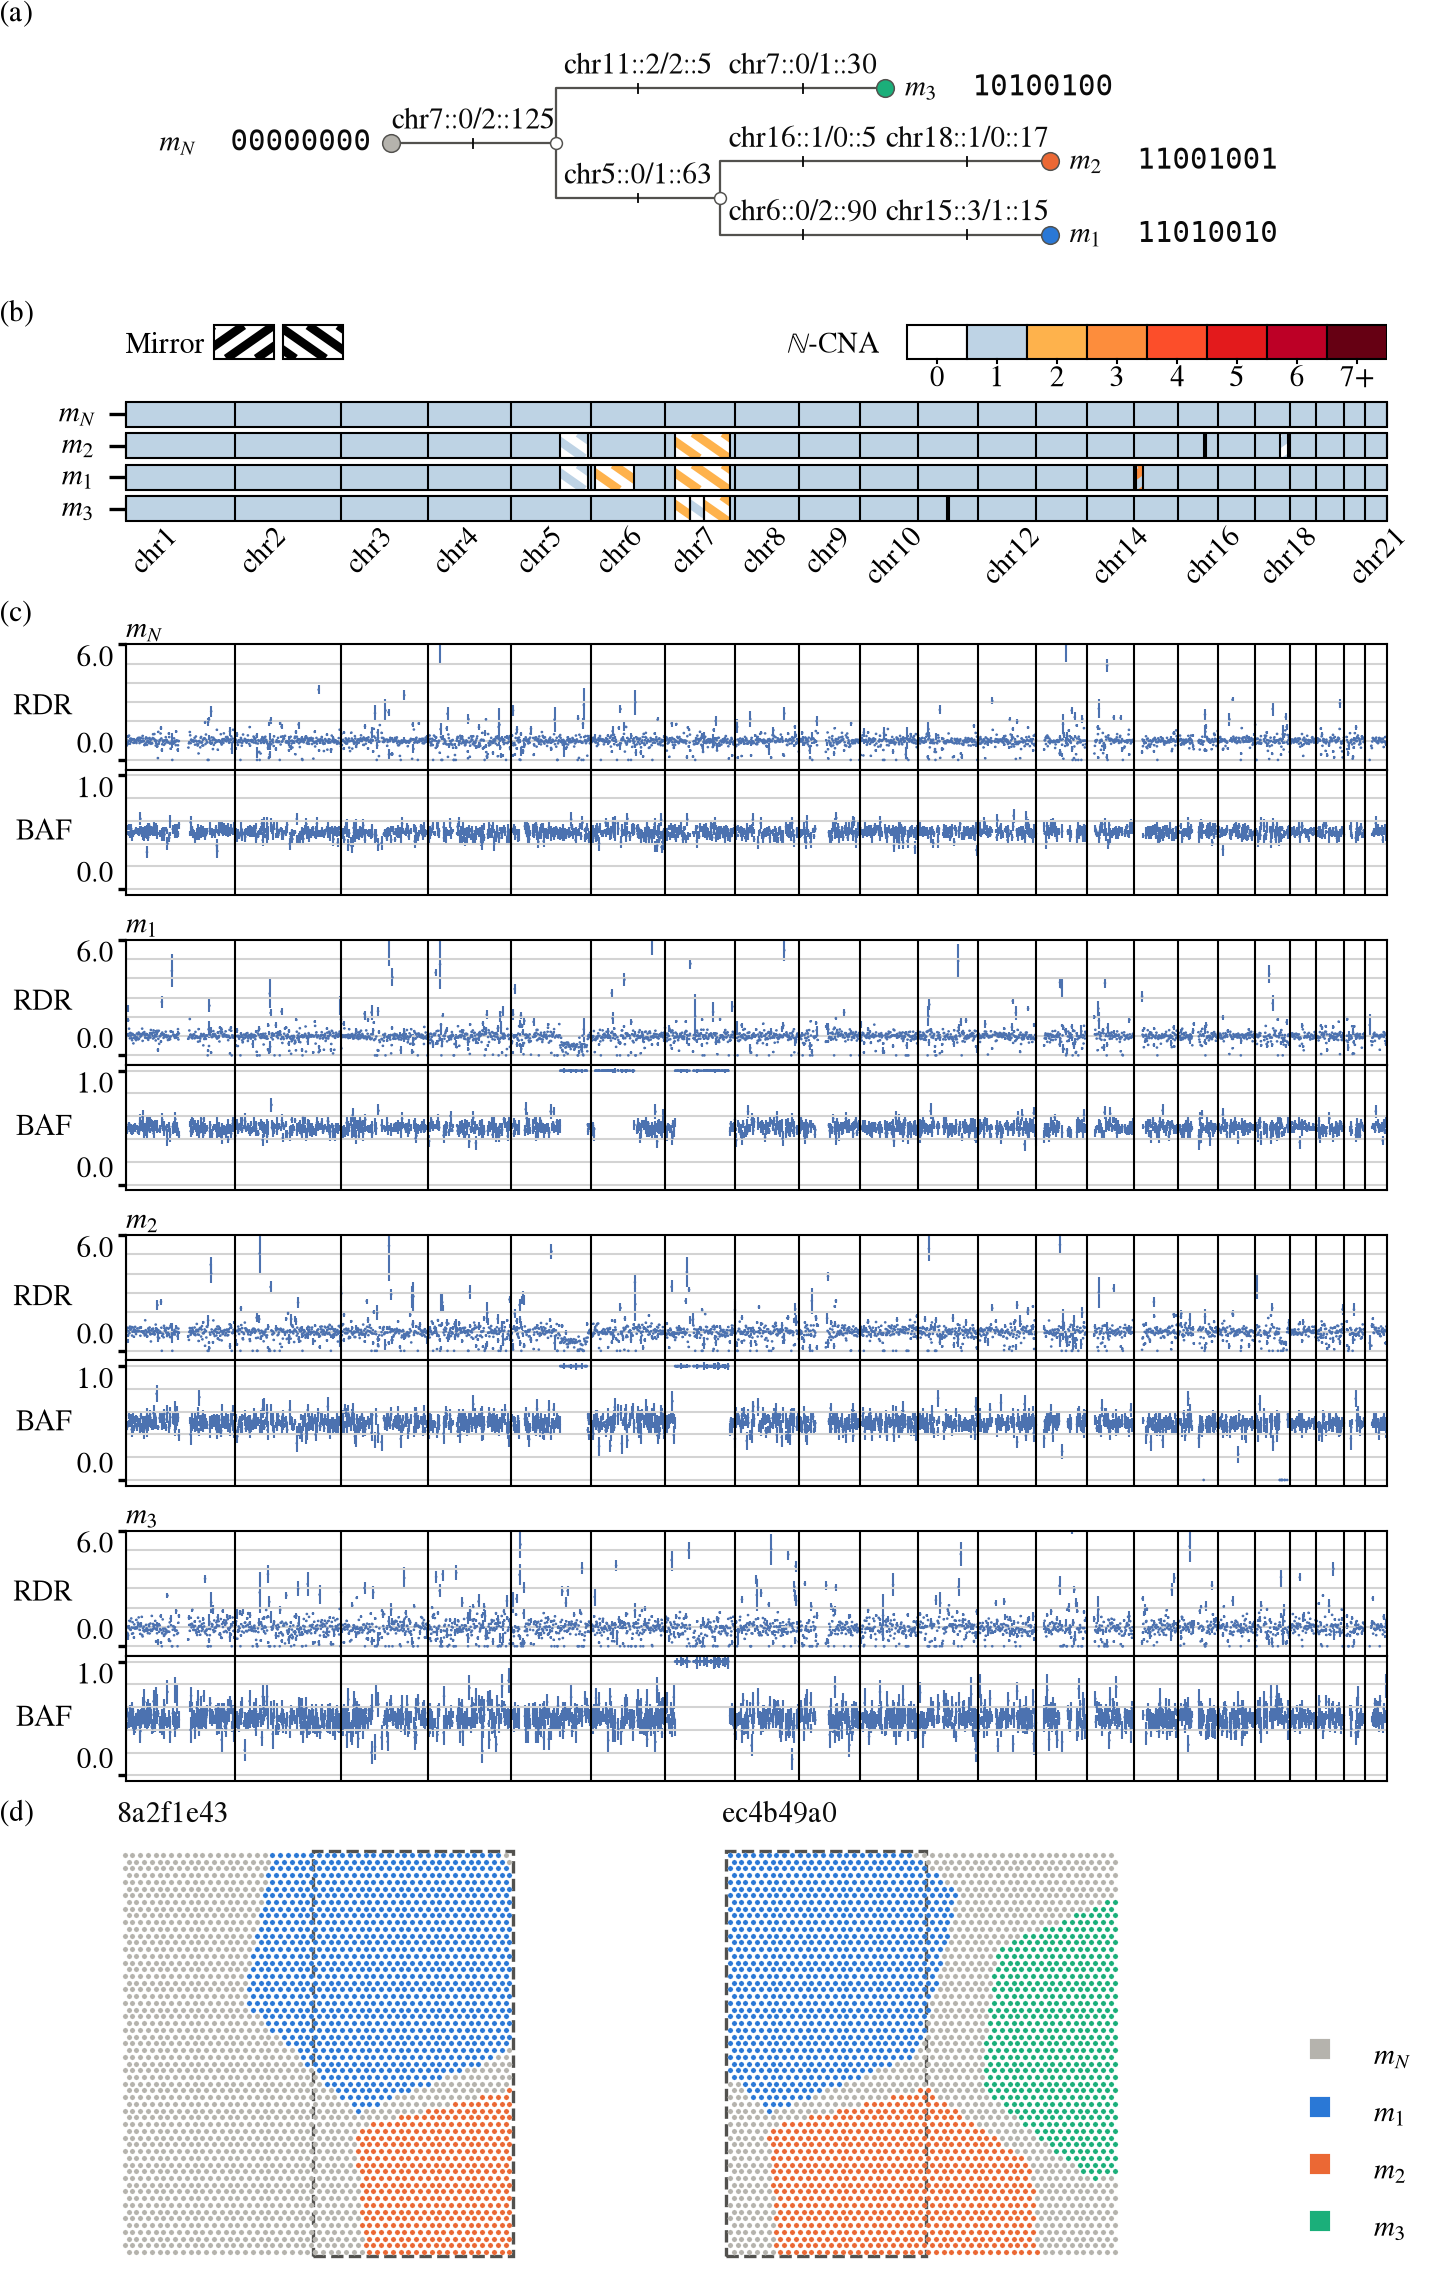
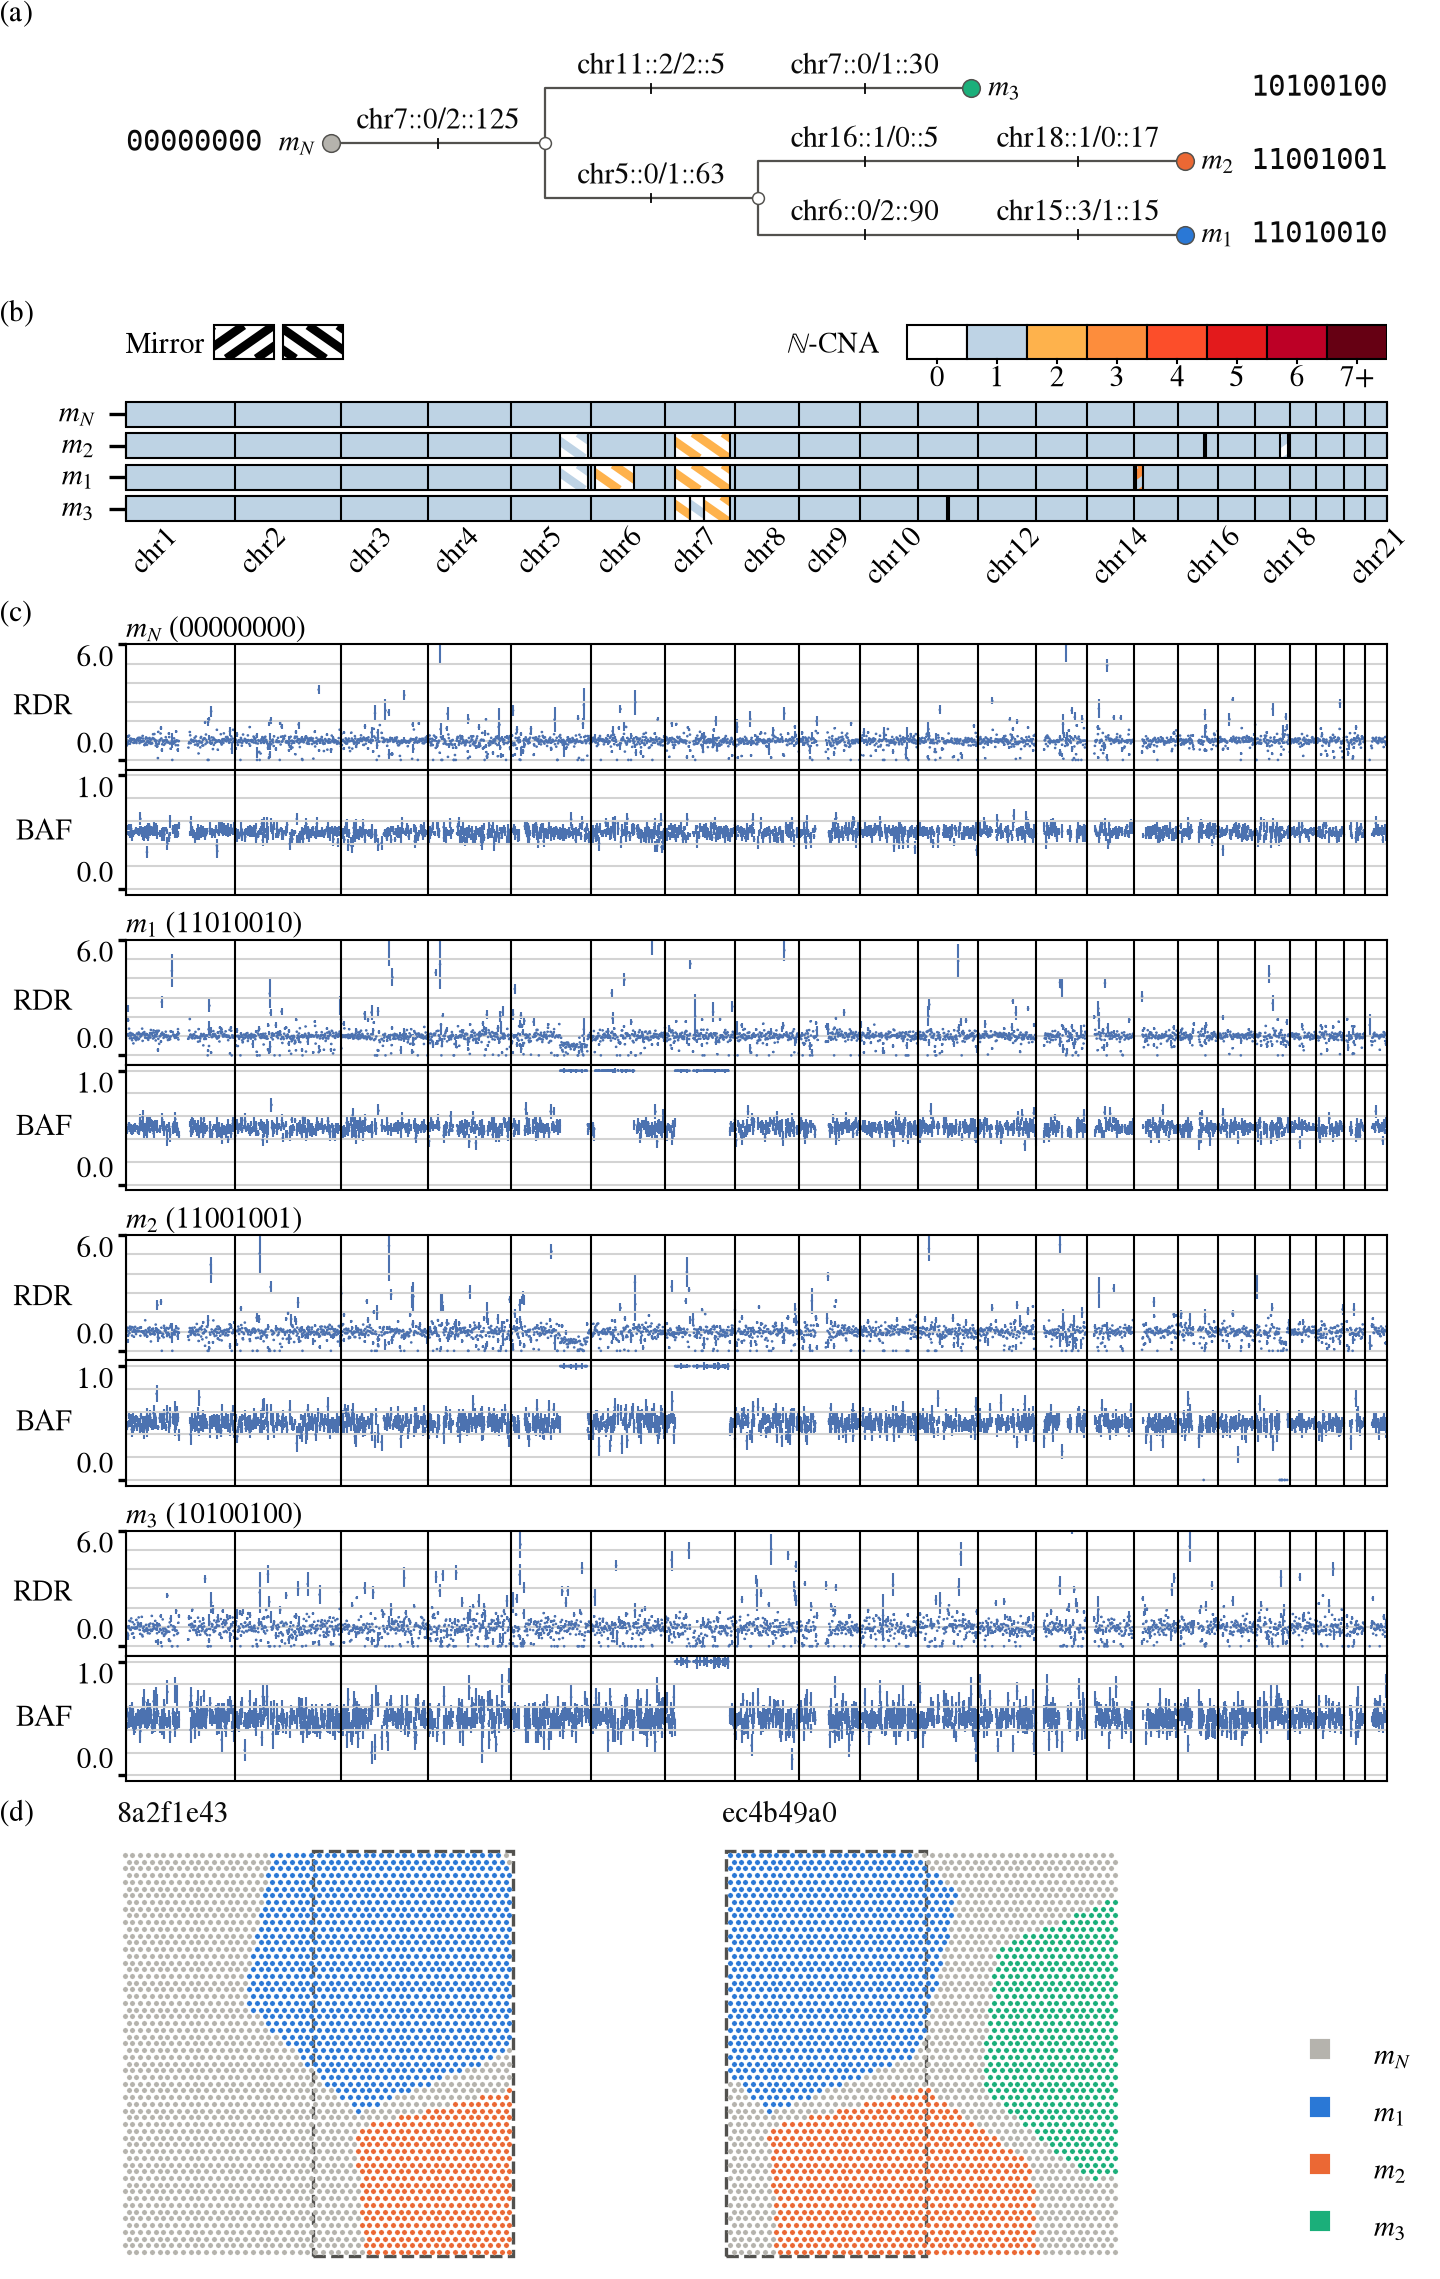
truth_combined: the tree spans the genome panels between its barcodes; (c) names clones with them
(a)'s root barcode starts on (c)'s left edge and each leaf's ends on its
right: draw_tree(edges=True) sets observed nodes' barcodes on the axis
edges and their names beside the node, and _fit_tree sets the x limits so
the root sits after its barcode and name, and the leaf whose name comes
closest to its barcode is 4 pt from it. (c) heads each clone as
'm_k (barcode)'. mutation_tree.png is unchanged.

Claude-Session: https://claude.ai/code/session_013R45AV845g3YiWXZGEDB8u

diff --git a/python/port/sim/truth_figure.py b/python/port/sim/truth_figure.py
@@ -9,7 +9,8 @@ Top to bottom, at `llncs`'s text width and height, 7 pt throughout, as
 - **(b)** each clone's planted `(A, B)`, drawn by `port`'s profile plotter
   under its mirror and copy-number key, the rows `combined.pdf` draws;
 - **(c)** RDR and BAF along the genome per true clone
-  (`analysis.genomic_truth`), drawn by `plot_clones_genomic`;
+  (`analysis.genomic_truth`), drawn by `plot_clones_genomic`, each clone
+  named with its barcode from (a);
 - **(d)** the true clone of each spot, per slice (`analysis.draw_spatial`),
   named by its key alone.
 
@@ -71,6 +72,7 @@ def truth_combined_figure(r: Realization, width: float | None = None) -> Any:
         draw_spatial,
         draw_tree,
         genomic_truth,
+        tree,
     )
 
     width = PAPER_WIDTH if width is None else width
@@ -88,7 +90,7 @@ def truth_combined_figure(r: Realization, width: float | None = None) -> Any:
         # (a)
         tree_ax = tree_fig.add_axes((0.02, 0.02, 0.96, 0.88))
         draw_tree(tree_ax, r, event_size=FONT_SIZE, node_size=FONT_SIZE, dot=18.0,
-                  name=symbol, ancestors=False)  # fmt: skip
+                  name=symbol, ancestors=False, edges=True)  # fmt: skip
 
         # (b): the key, then the rows, as `combined.pdf` draws its profile.
         legend_ax = profile_fig.add_axes((0.0, 0.72, 1.0, 0.2))
@@ -109,6 +111,14 @@ def truth_combined_figure(r: Realization, width: float | None = None) -> Any:
                             clone_index=g.groups, figure=genomic_fig,
                             pointsize=0.4, linewidth=0.3, chrtext_shift=-0.9)  # fmt: skip
         _fit_tracks(genomic_fig)
+        # NB each clone's name followed by its barcode, as (a) sets it.
+        barcode = tree(r).barcode
+        named = {symbol(clone): clone for clone in r.clones}
+        for ax in genomic_fig.axes:
+            for text in ax.texts:
+                clone = named.get(text.get_text())
+                if clone is not None and text.get_visible():
+                    text.set_text(f"{symbol(clone)} ({barcode[clone]})")
         for ax in genomic_fig.axes:
             ticks = ax.get_yticks()
             if ticks.size > 2:
@@ -163,7 +173,9 @@ def truth_combined_figure(r: Realization, width: float | None = None) -> Any:
             right -= overrun + LABEL_GAP / 72.0
 
         _stack_tracks(genomic_fig)
+        _put(tree_ax, LEFT, right)
         figure.canvas.draw()
+        _fit_tree(tree_ax)
         plot_ascn_legend(legend_ax, box_w=LEGEND_BOX, box_h=0.8, tick_len=0.1,
                          label_fontsize=FONT_SIZE, span=right - LEFT,
                          title_on_edge=True)  # fmt: skip
@@ -204,6 +216,63 @@ def _stack_tracks(panel: Any) -> None:
             y -= height
             _put(ax, y0=y, height=height)
         y -= TRACK_GAP
+
+
+NAME_GAP = 4.0
+"""Points between a node's name and the barcode on its edge, at the closest."""
+
+
+def _fit_tree(ax: Any) -> None:
+    """(a)'s x limits set so the tree fills the genome panels' width between its barcodes.
+
+    The root's barcode starts on the axis's left edge and each leaf's ends on
+    its right (`draw_tree(edges=True)`). The root sits `NAME_GAP` right of its
+    name after its barcode, and the tree is stretched until the leaf whose
+    name comes closest to its barcode is `NAME_GAP` from it.
+    """
+    figure = ax.get_figure(root=True)
+    renderer = figure.canvas.get_renderer()
+    dpi = figure.dpi
+    box = ax.get_window_extent(renderer)
+    left, right = box.x0 / dpi, box.x1 / dpi
+    gap = NAME_GAP / 72.0
+
+    def inches(text: Any) -> float:
+        return float(text.get_window_extent(renderer).width / dpi)
+
+    def offset(text: Any) -> float:
+        return abs(float(text.xyann[0])) / 72.0
+
+    names = [t for t in ax.texts if t.get_gid() == "name"]
+    barcodes = {
+        round(float(t.get_position()[1]), 6): t
+        for t in ax.texts
+        if t.get_gid() == "barcode"
+    }
+    root = min(names, key=lambda t: t.xy[0])
+    leaves = [t for t in names if t is not root]
+    x0 = float(root.xy[0])
+    start = (
+        left
+        + inches(barcodes[round(float(root.xy[1]), 6)])
+        + gap
+        + inches(root)
+        + offset(root)
+    )
+    # NB per leaf, the most inches per unit of event time it allows.
+    scale = min(
+        (
+            right
+            - inches(barcodes[round(float(leaf.xy[1]), 6)])
+            - gap
+            - inches(leaf)
+            - offset(leaf)
+            - start
+        )
+        / (float(leaf.xy[0]) - x0)
+        for leaf in leaves
+    )
+    ax.set_xlim(x0 - (start - left) / scale, x0 + (right - start) / scale)
 
 
 def _thin(labels: Any, renderer: Any) -> None:

diff --git a/python/port/sim/analysis.py b/python/port/sim/analysis.py
@@ -509,12 +509,18 @@ def draw_tree(
     dot: float = 90.0,
     name: Callable[[str], str] | None = None,
     ancestors: bool = True,
+    edges: bool = False,
 ) -> tuple[float, int]:
     """The clones' tree on `ax`, along event time; returns its width in events and its leaves.
 
     `name` names an observed clone, `display`'s numeral by default. Without
     `ancestors`, an unobserved node is drawn unnamed: its barcode is its
     children's common prefix.
+
+    With `edges`, an observed node's barcode is set on the axis's edge -- the
+    root's starting on the left, each leaf's ending on the right -- and its
+    name beside the node, so the caller sizes the tree between the two
+    (`truth_figure`). The texts carry `gid`s `name` and `barcode`.
     """
     t = tree(r)
     named = name or (lambda clone: display(clone, r.clones))
@@ -573,7 +579,20 @@ def draw_tree(
                    edgecolors=MUTED, linewidths=0.8 * small ** 0.5, zorder=3)  # fmt: skip
         label = t.barcode[node]
         root = t.parent[node] is None
-        if observed:
+        if observed and edges:
+            from matplotlib.transforms import blended_transform_factory
+
+            side = blended_transform_factory(ax.transAxes, ax.transData)
+            ax.annotate(named(node), (at[node], y[node]),
+                        xytext=(-4.0 if root else 4.0, 0.0),
+                        textcoords="offset points", fontsize=node_size, color=INK,
+                        va="center", ha="right" if root else "left",
+                        gid="name")  # fmt: skip
+            ax.text(0.0 if root else 1.0, y[node], label, transform=side,
+                    fontsize=node_size, color=INK, va="center",
+                    ha="left" if root else "right", family="monospace",
+                    gid="barcode")  # fmt: skip
+        elif observed:
             label = f"{named(node)}  {label}"
             # NB the root's trunk leaves to its right, so its name sits to
             #    its left; a leaf's name follows it.

diff --git a/tests/test_sim_analysis.py b/tests/test_sim_analysis.py
@@ -223,6 +223,50 @@ def test_the_genome_panels_share_one_left_and_one_right_edge(drawn: Drawn) -> No
 
 @pytest.mark.infra
 @pytest.mark.merge
+def test_the_tree_spans_the_genome_panels_between_its_barcodes(drawn: Drawn) -> None:
+    """(a)'s root barcode starts on (c)'s left edge and each leaf's ends on its
+    right; no name runs into a barcode or past its node's side."""
+    from port.sim.truth_figure import truth_combined_figure
+
+    figure = truth_combined_figure(read(drawn.path))
+    renderer = figure.canvas.get_renderer()
+    tree_panel, _, genomic, _ = figure.subfigs
+    (tree_ax,) = tree_panel.axes
+    track = genomic.axes[0].get_window_extent(renderer)
+    barcodes = [t for t in tree_ax.texts if t.get_gid() == "barcode"]
+    names = [t for t in tree_ax.texts if t.get_gid() == "name"]
+    boxes = sorted(
+        (t.get_window_extent(renderer) for t in barcodes), key=lambda b: b.x0
+    )
+    root, leaves = boxes[0], boxes[1:]
+
+    assert len(barcodes) == len(names) == len(read(drawn.path).clones)
+    assert root.x0 == pytest.approx(track.x0, abs=0.5)
+    for leaf in leaves:
+        assert leaf.x1 == pytest.approx(track.x1, abs=0.5)
+    for name in names:
+        box = name.get_window_extent(renderer)
+        assert not any(box.overlaps(b) for b in boxes)
+
+    # NB (c) names each clone with the barcode (a) gives it.
+    headed = {
+        t.get_text()
+        for ax in genomic.axes
+        for t in ax.texts
+        if t.get_visible() and "(" in t.get_text()
+    }
+    assert headed == {
+        f"{n.get_text()} ({b.get_text()})"
+        for n, b in zip(
+            sorted(names, key=lambda t: t.xy[1]),
+            sorted(barcodes, key=lambda t: t.get_position()[1]),
+            strict=True,
+        )
+    }
+
+
+@pytest.mark.infra
+@pytest.mark.merge
 def test_the_truth_page_writes_byte_for_byte_at_its_size(
     drawn: Drawn, tmp_path: Path
 ) -> None:
